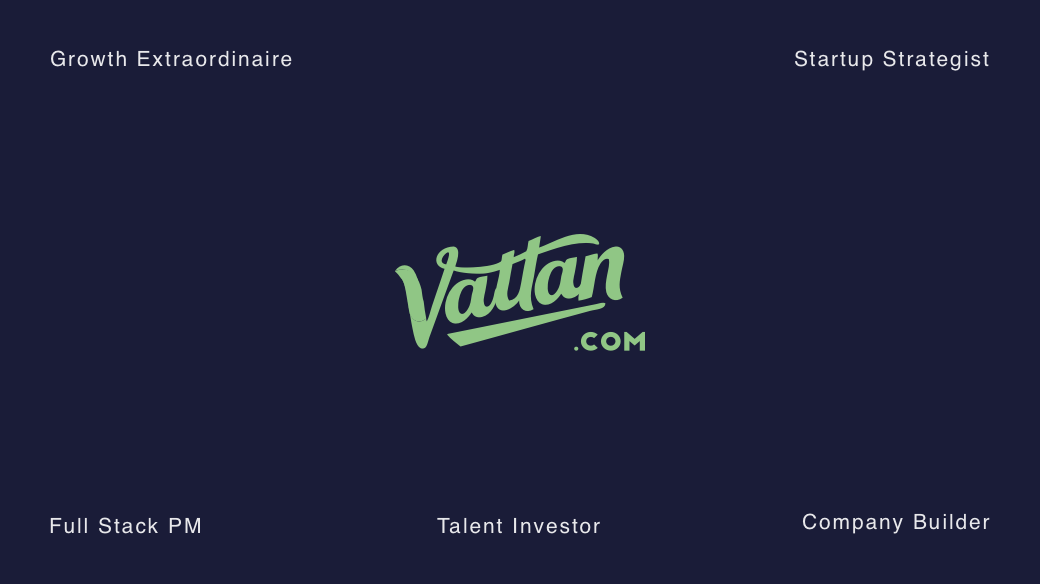
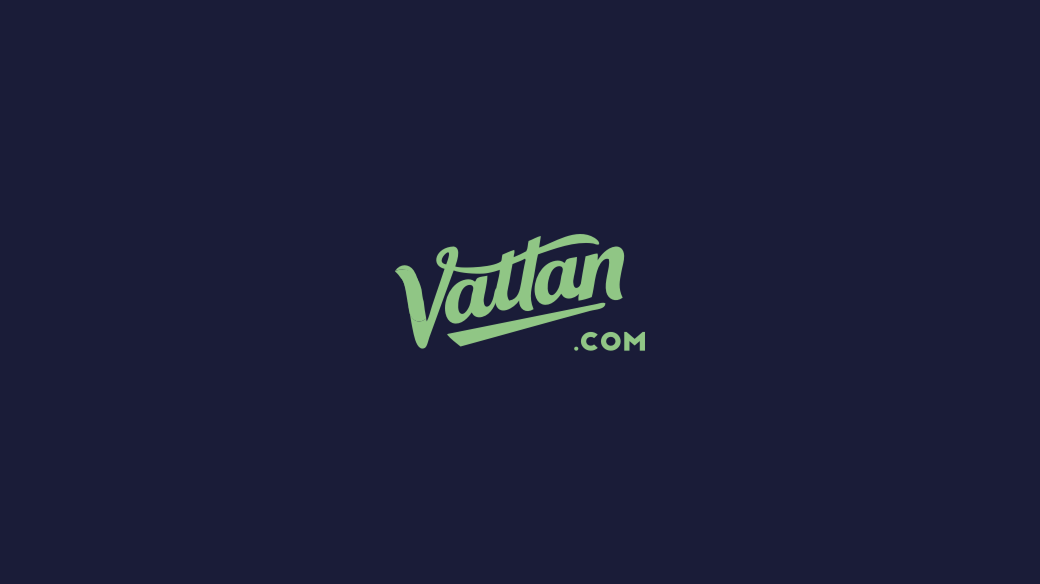
Redesign profile page with Tailwind CSS v4 and copy updates

diff --git a/index.html b/index.html
@@ -1,1 +1,1 @@
-<!DOCTYPE html><html lang="en"><head><meta charset="utf-8"><meta name="viewport" content="width=device-width, initial-scale=1"><title>Vattan PS - Exponential Transformation. At Scale.</title><meta name="description" content="I see what's missing and build what's next. Founder of Founderly and V, creating ventures that transform human potential at planetary scale."><link rel="canonical" href="https://vattan.com" /><link rel="dns-prefetch" href="//vattan.com" /> <script>!function(t,e,a,n,s){e[a]=e[a]||function(){(e[a].q=e[a].q||[]).push(arguments)},n=t.createElement("script"),s=t.getElementsByTagName("script")[0],n.async=1,n.src="//analytics.vps.link/tracker.js",n.id="fathom-script",s.parentNode.insertBefore(n,s)}(document,window,"fathom"),fathom("set","siteId","YWNNV"),fathom("trackPageview");</script> <link rel="apple-touch-icon" sizes="180x180" href="https://vattan.com/img/apple-touch-icon.png"><link rel="icon" type="image/png" sizes="32x32" href="https://vattan.com/img/favicon-32x32.png"><link rel="icon" type="image/png" sizes="16x16" href="https://vattan.com/img/favicon-16x16.png"><link rel="shortcut icon" type="image/x-icon" href="https://vattan.com/img/favicon.ico"><meta name="theme-color" content="#1A1C38"><meta itemprop="name" content="Vattan PS"><meta itemprop="description" content="Vattan PS - Exponential Transformation. At Scale."><meta itemprop="image" content="https://vattan.com/img/vattan-schema.png"><meta name="robots" content="noodp,noydir" /><meta property="og:url" content="https://vattan.com"><meta property="og:type" content="website"><meta name="title" property="og:title" content="Vattan PS - Exponential Transformation. At Scale."><meta name="description" property="og:description" content="I see what's missing and build what's next. Founder of Founderly and V, creating ventures that transform human potential at planetary scale."><meta name="image" property="og:image" content="https://vattan.com/img/vattan-facebook.png"><meta property="og:image:height" content="1200"><meta property="og:image:width" content="1200"><meta name="twitter:card" content="summary_large_image"><meta name="twitter:title" content="Vattan PS - Exponential Transformation. At Scale."><meta name="twitter:description" content="I see what's missing and build what's next. Founder of Founderly and V, creating ventures that transform human potential at planetary scale."><meta name="twitter:image" content="https://vattan.com/img/vattan-twitter.png"><meta name="twitter:site" content="psvattan"> <script type="application/ld+json">{"@context":"https://schema.org","@type":"Person","name":"Vattan PS","jobTitle":"Founder","url":"https://vattan.com","brand":"Vattan PS","image":"https:/vattan.com/img/vattan-schema.png"}</script> <link href="https://fonts.googleapis.com/css?family=Open+Sans:400,700,800&display=swap" rel="stylesheet"><link href="https://vattan.com/css/main.css" rel="stylesheet" media="screen" /><style></style></head><body> <main class="main"><div class="container"> <section class="intro"> <div class="header"><figure> <img src="https://vattan.com/img/vattan.svg" alt="Vattan PS - Exponential Transformation. At Scale."> </figure> <a class="button" href="https://blog.vattan.com" target="_blank"><span>Blog</span> <svg viewBox="0 0 62 36" fill="none" xmlns="http://www.w3.org/2000/svg"><path d="M51.0232 4.78137C43.8399 4.78137 36.6567 4.78137 29.4735 4.78137C23.1773 4.78137 16.2376 4.08517 10.3663 6.8296C7.6938 8.0788 4.38645 10.1306 2.84649 12.782C1.48574 15.1248 0.988718 18.628 1.00019 21.3018C1.00994 23.5719 1.97437 25.3351 3.35614 27.0811C5.46795 29.7497 7.95463 32.4336 11.2606 33.5431C15.1621 34.8525 19.7135 34.9982 23.7711 35.0913C29.954 35.2332 36.1171 34.7828 42.2533 34.0528C46.1165 33.5932 50.5598 33.2245 54.2349 31.7065C57.4622 30.3735 62.0997 26.3314 61.6586 22.3981C61.0983 17.4025 57.2737 13.0321 53.8695 9.62789C50.8422 6.6005 47.4077 4.06244 43.2245 2.887C38.343 1.51534 33.0525 1.14648 28.0022 1.14648" stroke="#8bc47e" stroke-width="0.5" stroke-linecap="round" ></path></svg></a> </div> <article class="mt-sm"><h1>Exponential Transformation. <br> At Scale.</h1><p>I see what's missing and build what's next. Planetary scale in years, not decades.</p> </article> <aside class="cta mt-sm"> <button class="button" onclick="document.querySelector('#profile').scrollIntoView({behavior: 'smooth'});">Read more</button><ul class="social"><li> <script type="text/javascript">eml='vattan.com';eml=('connect'+'@'+eml);document.write('<a href="mailto:'+eml+'" title="Email"><svg xmlns="http://www.w3.org/2000/svg" width="24" height="24" viewBox="0 0 24 24" fill="none" stroke="currentColor" stroke-width="1" stroke-linecap="round" stroke-linejoin="round"><path d="M4 4h16c1.1 0 2 .9 2 2v12c0 1.1-.9 2-2 2H4c-1.1 0-2-.9-2-2V6c0-1.1.9-2 2-2z"></path><polyline points="22,6 12,13 2,6"></polyline></svg></a>');</script> </li><li> <a href="https://www.instagram.com/psvattan/" title="Instagram" rel="nofollow" target="_blank"> <svg xmlns="http://www.w3.org/2000/svg" width="24" height="24" viewBox="0 0 24 24" fill="none" stroke="currentColor" stroke-width="1" stroke-linecap="round" stroke-linejoin="round"><rect x="2" y="2" width="20" height="20" rx="5" ry="5"></rect><path d="M16 11.37A4 4 0 1 1 12.63 8 4 4 0 0 1 16 11.37z"></path><line x1="17.5" y1="6.5" x2="17.51" y2="6.5"></line></svg> </a></li><li> <a href="https://m.me/psvattan" title="Facebook" rel="nofollow" target="_blank"> <svg xmlns="http://www.w3.org/2000/svg" width="24" height="24" viewBox="0 0 24 24" fill="none" stroke="currentColor" stroke-width="1" stroke-linecap="round" stroke-linejoin="round"><path d="M18 2h-3a5 5 0 0 0-5 5v3H7v4h3v8h4v-8h3l1-4h-4V7a1 1 0 0 1 1-1h3z"></path></svg> </a></li><li> <a href="https://twitter.com/psvattan" title="Twitter" rel="nofollow" target="_blank"> <svg xmlns="http://www.w3.org/2000/svg" width="24" height="24" viewBox="0 0 24 24" fill="none" stroke="currentColor" stroke-width="1" stroke-linecap="round" stroke-linejoin="round"><path d="M23 3a10.9 10.9 0 0 1-3.14 1.53 4.48 4.48 0 0 0-7.86 3v1A10.66 10.66 0 0 1 3 4s-4 9 5 13a11.64 11.64 0 0 1-7 2c9 5 20 0 20-11.5a4.5 4.5 0 0 0-.08-.83A7.72 7.72 0 0 0 23 3z"></path></svg> </a></li><li> <a href="https://www.linkedin.com/in/vattan/" title="LinkedIn" rel="nofollow" target="_blank"> <svg xmlns="http://www.w3.org/2000/svg" width="24" height="24" viewBox="0 0 24 24" fill="none" stroke="currentColor" stroke-width="1" stroke-linecap="round" stroke-linejoin="round"><path d="M16 8a6 6 0 0 1 6 6v7h-4v-7a2 2 0 0 0-2-2 2 2 0 0 0-2 2v7h-4v-7a6 6 0 0 1 6-6z"></path><rect x="2" y="9" width="4" height="12"></rect><circle cx="4" cy="4" r="2"></circle></svg> </a></li></ul> </aside> </section></div> </main> <section class="bg-white pt" id="profile"><div class="container"> <article><div class="w-75"><h2>Ventures That <br> Transform Reality</h2></div><p class="pl-sm"><a href="https://founderly.com" rel="noopener" target="_blank"><strong>Founderly</strong></a> is reimagining how entrepreneurs succeed—creating a global platform where millions of unheard founders find the support, resources, and connections to transform potential into reality.</p> <p class="pl-sm"><a href="https://v.ee" rel="noopener" target="_blank"><strong>V</strong></a> is defining how humans and AI evolve together. With Agency.AI and our augmented intelligence tools, we're proving that humans and AI achieve more together than either could alone.</p> <p class="pl-sm"><i>Every venture proves the same truth: humanity advances through new possibilities, not old limitations.</i></p> </article></div> </section>  <section class="bg-white pt pb"><div class="container"> <article><div class="w-75"><h2>Making Patterns Visible</h2></div><p class="pl-sm">Through conference keynotes, podcast appearances, and curated discussions, I reveal the opportunities hiding in plain sight. Every conversation sparks new possibilities.</p> </article></div> </section>  <footer class="pt pb"><div class="container"><blockquote><p>The future needs new foundations. I'm building them.</p></blockquote></div> </footer></body></html>
+<!DOCTYPE html><html lang="en" class="scroll-smooth"><head><meta charset="UTF-8"><meta name="viewport" content="width=device-width,initial-scale=1"><title>Vattan — The Man Whose Purpose Was Written Before He Was Born</title><meta name="description" content="Some names describe a person. His described a mission. A long-form profile of Vattan — the man whose name means homeland, vision, water, and foundation across eight languages."><link rel="canonical" href="https://vattan.com"><meta name="theme-color" content="#060f4a"><meta name="robots" content="noodp,noydir"><link rel="apple-touch-icon" sizes="180x180" href="https://vattan.com/img/apple-touch-icon.png"><link rel="icon" type="image/png" sizes="32x32" href="https://vattan.com/img/favicon-32x32.png"><link rel="icon" type="image/png" sizes="16x16" href="https://vattan.com/img/favicon-16x16.png"><link rel="shortcut icon" type="image/x-icon" href="https://vattan.com/img/favicon.ico"><meta property="og:url" content="https://vattan.com"><meta property="og:type" content="article"><meta property="og:title" content="Vattan — The Man Whose Purpose Was Written Before He Was Born"><meta property="og:description" content="Some names describe a person. His described a mission. A long-form profile across eight languages and three civilizations."><meta property="og:image" content="https://vattan.com/img/vattan-facebook.png"><meta property="og:image:width" content="1200"><meta property="og:image:height" content="1200"><meta name="twitter:card" content="summary_large_image"><meta name="twitter:site" content="psvattan"><meta name="twitter:title" content="Vattan — The Man Whose Purpose Was Written Before He Was Born"><meta name="twitter:description" content="Some names describe a person. His described a mission. A long-form profile across eight languages and three civilizations."><meta name="twitter:image" content="https://vattan.com/img/vattan-twitter.png"><script type="application/ld+json">{"@context":"https://schema.org","@type":"Article","headline":"The Man Whose Purpose Was Written Before He Was Born","author":{"@type":"Person","name":"Vattan PS","url":"https://vattan.com"},"publisher":{"@type":"Person","name":"Vattan PS"},"image":"https://vattan.com/img/vattan-schema.png","url":"https://vattan.com","description":"Some names describe a person. His described a mission. A long-form profile of Vattan across eight languages and three civilizations."}</script><script>!function(t,e,a,n,s){e[a]=e[a]||function(){(e[a].q=e[a].q||[]).push(arguments)},n=t.createElement("script"),s=t.getElementsByTagName("script")[0],n.async=1,n.src="//analytics.vps.link/tracker.js",n.id="fathom-script",s.parentNode.insertBefore(n,s)}(document,window,"fathom"),fathom("set","siteId","YWNNV"),fathom("trackPageview")</script><link rel="preconnect" href="https://fonts.googleapis.com"><link rel="preconnect" href="https://fonts.gstatic.com" crossorigin><link href="https://fonts.googleapis.com/css2?family=Cormorant+Garamond:ital,wght@0,300;0,400;0,500;0,600;1,300;1,400;1,500&family=Cormorant+SC:wght@300;400;500&family=EB+Garamond:ital,wght@0,400;0,500;1,400&display=swap" rel="stylesheet"><script src="https://cdn.jsdelivr.net/npm/@tailwindcss/browser@4"></script><style type="text/tailwindcss">@theme{--color-navy:#09196e;--color-navy-deep:#060f4a;--color-navy-mid:#0d2280;--color-gold:#c9a96e;--color-gold-light:#e8d4a8;--color-gold-dark:#a08540;--color-cream:#f8f4ed;--color-cream-dark:#f0e8d8;--color-ink:#1a1a2e;--color-mist:#8892b0;--font-body:'EB Garamond',Georgia,serif;--font-display:'Cormorant Garamond',serif;--font-sc:'Cormorant SC',serif;--animate-scroll-pulse:scrollPulse 2s ease-in-out infinite;@keyframes fadeIn{from{opacity:0}to{opacity:1}}@keyframes fadeUp{from{opacity:0;transform:translateY(20px)}to{opacity:1;transform:translateY(0)}}@keyframes scrollPulse{0%,100%{opacity:.4;transform:scaleY(1)}50%{opacity:.8;transform:scaleY(1.1)}}}.cover::before{content:'';position:absolute;inset:0;background:radial-gradient(ellipse 60% 40% at 50% 60%,rgba(201,169,110,.06) 0%,transparent 70%),radial-gradient(ellipse 30% 60% at 20% 30%,rgba(9,25,110,.4) 0%,transparent 60%);pointer-events:none}.page::before{content:'';position:absolute;top:0;left:0;right:0;height:4px;background:linear-gradient(to right,var(--color-navy-deep),var(--color-navy),var(--color-gold),var(--color-navy),var(--color-navy-deep))}.pull-quote::before{content:'';position:absolute;top:0;left:0;width:3px;height:100%;background:var(--color-gold)}.pull-quote p span{color:var(--color-gold);font-style:normal}.pull-quote::after{content:'\201C';position:absolute;right:40px;bottom:-20px;font-family:var(--font-display);font-size:160px;font-weight:300;color:rgba(201,169,110,.08);line-height:1;pointer-events:none}.first-section>p:first-child::first-letter{font-family:var(--font-display);font-size:5.5em;font-weight:300;float:left;line-height:.75;margin-right:8px;margin-top:8px;color:var(--color-navy)}.prose p{font-family:var(--font-body);font-size:19px;line-height:1.85;color:#121212;margin-bottom:1.5em}.prose p:last-child{margin-bottom:0}.prose em{font-style:italic;color:#1a1a2e}.prose strong{font-weight:600;color:var(--color-navy)}.closing::before{content:'';position:absolute;inset:0;background:radial-gradient(ellipse 60% 50% at 50% 50%,rgba(201,169,110,.06) 0%,transparent 70%);pointer-events:none}.reveal{opacity:0;transform:translateY(24px);transition:opacity .8s ease,transform .8s ease}.reveal.visible{opacity:1;transform:translateY(0)}</style></head><body class="bg-navy-deep text-cream font-body text-[18px] leading-[1.8] antialiased overflow-x-hidden"><section class="cover min-h-screen bg-[linear-gradient(160deg,var(--color-navy-deep)_0%,var(--color-navy)_50%,var(--color-navy-mid)_100%)] flex flex-col items-center justify-center py-[60px] px-6 sm:py-20 sm:px-10 relative overflow-hidden"><div class="absolute top-12 left-1/2 -translate-x-1/2 opacity-0 animate-[fadeIn_1s_ease_0.3s_forwards] text-white/60"><svg class="h-12 w-auto" viewBox="0 0 249 132" fill="currentColor" xmlns="http://www.w3.org/2000/svg"><path d="M205.489 4.63046C186.739 -6.83693 162.935 10.0924 147.989 14.6033L146.358 21.6685C164.32 15.6087 185.326 7.6196 203.886 10.2283C205.842 10.5 207.744 12.1305 210.054 11.0435C210.815 8.51633 207.473 5.82612 205.489 4.63046Z"/><path fill-rule="evenodd" clip-rule="evenodd" d="M236.304 66.0978C229.048 71.3967 221.249 67.6739 219.402 60.3913C218.043 55.0109 219.13 48.9783 220.244 43.1087C221.331 37.2935 223.206 31.3967 221.956 26.587C217.907 25.2011 214.728 29.1413 213.315 31.288C207.499 40.1467 207.282 54.9294 204.374 65.4457C200.679 66.9946 194.673 68.625 190.679 69.1141C190.054 65.2826 191.412 61.6957 192.092 57.8098C194.048 46.6957 195.706 34.9293 197.989 23.788C201.983 22.9457 206.576 21.0435 210.19 20.8533C211.304 22.5652 210.217 25.1196 210.543 27.2391C210.543 27.5109 210.298 27.6467 210.407 27.9728C213.206 23.2446 220.108 14.712 228.804 13.8152C233.505 13.3261 237.635 16.4511 237.853 23.3533C238.016 28.4076 235.869 34.413 234.864 40.2011C233.342 48.5435 231.358 56.2065 236.304 66.0978Z"/><path fill-rule="evenodd" clip-rule="evenodd" d="M83.3155 50.337C84.6198 49.4402 84.2394 47.5109 86.0329 46.4783C88.6687 44.9294 93.1796 44.9294 96.06 44.1141C96.0872 49.087 94.8916 54.413 93.8318 60.4185C93.4514 62.538 92.5546 65.4728 92.2829 68.6793C92.0927 70.962 92.4731 76.2609 95.272 76.3424C99.022 76.4511 101.06 70.2826 101.821 68C103.18 64.0054 102.989 60.6087 104.647 57.5109C105.815 57.375 106.93 57.2663 107.609 57.9728C108.886 60.1739 107.446 63.2174 106.631 66.0707C104.484 73.5978 100.299 84.5761 90.5709 87.0217C85.8155 88.2174 82.0383 86.5598 79.8916 82.3478C77.147 86.8587 69.2394 96.4783 60.2177 93.2717C56.6579 91.9946 54.1035 88.0815 53.1253 83.2446C50.2992 68.9239 59.5383 50.4457 74.1579 48.1087C76.9296 47.6196 80.4622 47.7826 83.3155 50.337ZM66.8481 68.5435C65.897 73 65.272 81.4783 68.6416 83.4348C71.6307 85.2011 74.5655 81.2065 75.7068 79.3315C79.0764 73.8152 78.9677 70.4728 80.0818 64.0326C80.4622 61.7772 82.3101 57.8641 81.2503 55.5544C80.0003 52.837 76.6307 53.6522 74.9731 54.413C70.1633 56.6413 68.0166 63.163 66.8481 68.5435Z"/><path fill-rule="evenodd" clip-rule="evenodd" d="M174.945 30.6087C176.25 29.712 175.869 27.7826 177.663 26.75C180.299 25.1739 184.837 25.1739 187.717 24.3587C187.744 29.3587 186.549 34.6576 185.489 40.663C185.108 42.7826 184.212 45.6902 183.94 48.9239C183.75 51.2065 184.13 56.5054 186.929 56.587C190.679 56.6957 192.717 50.5272 193.478 48.2446C194.837 44.25 194.646 40.8533 196.331 37.7554C197.5 37.6196 198.614 37.5109 199.293 38.2174C200.57 40.4185 199.13 43.462 198.315 46.3152C196.168 53.8424 191.983 64.8207 182.255 67.2663C177.5 68.462 173.723 66.8043 171.576 62.5924C168.831 67.1033 160.924 76.7228 151.902 73.5163C148.342 72.2391 145.788 68.3261 144.81 63.4891C141.983 49.1685 151.223 30.6902 165.842 28.3533C168.56 27.8913 172.092 28.0543 174.945 30.6087ZM158.478 48.8152C157.527 53.2717 156.902 61.75 160.271 63.7065C163.261 65.4457 166.195 61.4783 167.337 59.6033C170.706 54.087 170.598 50.7446 171.712 44.3043C172.092 42.0489 173.94 38.1359 172.88 35.8261C171.63 33.1087 168.261 33.9239 166.603 34.6848C161.793 36.913 159.646 43.4348 158.478 48.8152Z"/><path fill-rule="evenodd" clip-rule="evenodd" d="M218.453 71.0707C218.588 77.2935 208.587 77.2391 202.392 78.8696C157.718 90.663 111.169 103.543 67.6092 115.201C62.8266 111.315 57.7179 107.864 53.6418 103C54.0495 102.81 54.0766 102.402 54.5929 102.293C105.49 92.2663 157.636 81.9946 209.24 71.8315C212.31 71.2337 215.463 69.7663 218.453 71.0707Z"/><path d="M137.527 7.64674C136.576 11.0978 136.929 15.3098 135.136 18.2446C131.168 20.5 126.712 22.4837 122.092 24.3587C121.957 21.6685 123.56 19.9565 122.69 16.8587C117.989 18.1359 114.511 20.1196 110.38 21.7228C109.62 24.4402 109.81 27.7283 108.696 30.2826L107.663 37.1304C107.717 45.0109 101.359 60.0652 102.935 70.3641C105.543 87.212 123.288 76.7228 127.717 68.9511C127.364 78.0543 134.973 82.9457 142.717 78.0272C137.12 64.712 141.304 55.0652 143.125 44.3859C144.565 35.9891 145.707 27.9185 147.636 20.1196C147.663 20.1196 147.663 20.1196 147.663 20.0924L148.967 11.3424H148.94C149.076 10.1467 149.266 9.00543 149.484 7.86413L150.245 2.86413C150.245 2.78261 150.272 2.67391 150.272 2.59239C146.603 3.02717 141.793 6.20652 137.527 7.64674ZM129.81 51.125C128.451 58.2717 126.929 67.8641 117.337 69.1413C113.505 63.1359 116.467 56.0978 117.5 50.2283C118.668 43.788 119.538 37.538 120.87 31.5054C125 29.6304 130 28.2174 133.533 26.0163C133.913 25.8261 134.049 26.0707 134.158 26.3696C134.239 26.6957 134.321 27.0217 134.429 27.3478C132.636 34.413 131.332 43.0543 129.81 51.125Z"/><path d="M26.7932 57.4837C27.4182 61.8587 27.69 66.288 28.9671 69.9565C28.4236 65.7446 27.7986 61.5598 26.7932 57.4837Z"/><path d="M24.5378 50.1739C25.4617 52.538 26.1954 54.9837 26.7932 57.4565C26.7117 56.8587 26.603 56.2337 26.4943 55.6359C25.353 49.0598 23.6139 42.375 20.0541 37.3478C15.3257 30.6902 5.92354 29.9565 0.298538 37.9728C12.2551 33.3804 20.4073 39.5217 24.5378 50.1739Z"/><path d="M5.97881 45.5815C9.70163 51.6957 10.544 58.0815 11.794 64.7391C12.8266 70.2011 13.0712 76.1522 14.4299 80.9891C13.4788 75.1196 12.5549 69.1413 11.4136 62.375C10.6255 57.7826 9.37554 48.6522 5.97881 45.5815Z"/><path d="M28.587 89.5761C29.6467 89.0326 30.6522 88.3804 31.5761 87.6467C30.3533 82.0217 29.7554 75.9891 28.9946 69.9565C27.7446 66.3152 27.4728 61.8587 26.8207 57.4837C26.2228 55.0109 25.4891 52.5652 24.5652 50.2011C20.4348 39.5489 12.2826 33.3804 0.353261 38.0272C0.217391 38.163 0.108696 38.3261 0 38.4891C2.58152 40.7989 4.4837 43.163 5.97826 45.5815C9.40217 48.6522 10.6522 57.7826 11.413 62.375C12.5543 69.1413 13.4783 75.0924 14.4293 80.9891C14.6739 81.8587 14.9457 82.6739 15.2717 83.462C18.2337 90.5272 23.8043 92.0217 28.587 89.5761Z"/><path d="M111.468 26.4239C116.495 21.7228 113.968 25.7446 113.506 25.962C113.234 26.0978 112.419 25.7717 110.68 27.7011C103.696 35.4185 71.4133 35.5815 66.2774 34.875C64.9459 34.6848 63.7774 34.712 61.8209 34.087C61.9024 33.9239 62.4187 32.2663 62.3916 32.2391C63.2883 29.6848 64.2394 26.5598 64.6742 23.625C65.4079 18.6522 64.7557 14.1413 60.109 13.5435C41.4405 14.1413 35.6253 33.1087 50.734 36.5054C50.5981 36.8859 46.4677 49.1685 46.4677 49.1685C43.4514 57.9728 40.4079 66.5598 37.6361 74.9565C35.7883 80.6087 34.7285 86.0435 32.2557 90.663C31.984 89.6848 31.7666 88.6793 31.5492 87.6739C30.6253 88.4076 29.647 89.0598 28.56 89.6033C23.8046 92.0489 18.2068 90.5543 15.2719 83.4891C14.9458 82.7011 14.6741 81.8859 14.4295 81.0163C15.598 88.2717 16.8481 95.4185 18.6959 103.788C20.3535 111.315 23.7231 121.071 30.109 117.946C32.6905 116.668 33.8046 110.092 35.0818 106.614C43.7231 83.1087 51.8753 60.7717 60.1905 38.1902C67.2014 40.8533 82.3372 41.913 91.0329 41.4239C96.8753 41.0978 108.56 38.0272 116.06 34.6304L111.821 25.8261C111.739 25.9076 109.674 28.1359 111.468 26.4239ZM53.7231 19.6576C57.935 18.2174 52.9622 30.3641 52.4731 31.8859C52.4731 31.913 52.4731 31.913 52.4459 31.9402C42.772 30.4457 50.4079 21.0163 53.7231 19.6576Z"/></svg></div><div class="name-cycler absolute top-1/2 left-1/2 -translate-x-1/2 -translate-y-1/2 text-center pointer-events-none select-none z-0 w-[90%]" aria-hidden="true"><span class="name-cycler-word block font-display text-[clamp(72px,16vw,220px)] font-light text-[rgba(201,169,110,0.055)] leading-none tracking-[0.04em] will-change-[opacity,transform] whitespace-nowrap"></span> <span class="name-cycler-lang block font-sc text-[11px] font-normal tracking-[0.45em] text-[rgba(201,169,110,0.15)] uppercase mt-2.5 will-change-[opacity]"></span></div><div class="relative z-[1] text-center max-w-[900px]"><h1 class="font-display text-[clamp(32px,5vw,64px)] font-light leading-[1.1] tracking-[-0.02em] text-cream mb-12 opacity-0 animate-[fadeUp_1s_ease_0.7s_forwards]">The Man Whose Purpose<br>Was <em class="italic text-gold-light">Written</em><br>Before He Was Born</h1><div class="w-px h-20 bg-[linear-gradient(to_bottom,transparent,var(--color-gold),transparent)] mx-auto mb-12 opacity-0 animate-[fadeIn_1s_ease_1.1s_forwards]"></div><p class="font-display text-[18px] font-normal tracking-[0.2em] text-mist uppercase opacity-0 animate-[fadeUp_1s_ease_1.3s_forwards]">Some names describe a person. His described a mission.</p><p class="font-sc text-[15px] tracking-[0.35em] text-gold/70 uppercase mt-4 opacity-0 animate-[fadeUp_1s_ease_1.5s_forwards]">Vattan &nbsp;·&nbsp; 2026</p></div><div class="absolute bottom-6 left-1/2 -translate-x-1/2 flex flex-col items-center gap-2 opacity-0 animate-[fadeIn_1s_ease_2s_forwards]"><span class="font-sc text-[12px] tracking-[0.3em] text-gold/70 uppercase">Read</span><div class="w-px h-10 bg-[linear-gradient(to_bottom,rgba(201,169,110,0.4),transparent)] animate-scroll-pulse"></div></div></section><main class="page bg-cream text-ink relative"><div class="reveal max-w-[680px] mx-auto pt-[60px] px-6 pb-10 sm:pt-[100px] sm:px-10 sm:pb-20 text-center"><p class="font-display text-[clamp(24px,3.2vw,34px)] font-normal leading-[1.5] text-ink italic">There is a difference between a man who has a vision and a man who <strong class="not-italic font-medium">is</strong> a vision.</p><div class="flex items-center gap-4 mt-16 justify-center"><div class="w-[60px] h-px bg-gold opacity-50"></div><div class="w-[5px] h-[5px] bg-gold rounded-full opacity-70"></div><div class="w-[60px] h-px bg-gold opacity-50"></div></div></div><article class="max-w-[680px] mx-auto pt-10 px-6 pb-20 sm:pt-20 sm:px-10 sm:pb-[120px]"><div class="prose first-section reveal mb-20"><p>The first kind talks about the future. The second kind runs on it — the way a city runs on infrastructure laid before anyone living in it was born. For Vattan, the vision is not something he developed. It is something he discovered was already installed.</p><p>The question is not what he sees. It is what he does with it.</p><p>Every language that has ever held his name has been quietly describing him — and he is only now, at the hinge of his life, learning to read what they wrote.</p></div><div class="reveal mb-20"><div class="flex flex-col gap-2 sm:flex-row sm:items-baseline sm:gap-5 mb-9 pb-5 border-b border-navy/12"><span class="font-display text-[18px] font-light tracking-[0.2em] text-gold-dark whitespace-nowrap shrink-0">I</span><h2 class="font-display text-[32px] font-medium italic text-navy leading-[1.25]">The Word That Traveled the World</h2></div><div class="prose"><p>Before Vattan built anything, his name already had.</p><p><em>Vatan</em> left the Arabian peninsula as وَطَن — homeland, the ground beneath your feet, the place your bones know before your mind does. It crossed deserts and mountain passes, moved through Persian courts and Ottoman councils, arrived in Punjabi villages and Hindi classrooms. It became the word soldiers whispered before battles. The word poets used when they meant something that could not be said any other way. The word that made the first Prime Minister of India weep in public.</p><p>Across the Arab world, newspapers named themselves <em>Al-Watan</em> because no other word carried enough weight to stand for truth. The UAE built its presidential palace and called it <em>Qasr Al Watan</em> — the Palace of the Nation. To utter <em>vatan</em> in India is not to speak a word. It is to invoke something older than the country itself.</p><p>This is the word Vattan was born into.</p></div></div><div class="reveal grid grid-cols-1 sm:grid-cols-2 gap-px bg-navy/10 border border-navy/10 my-12"><div class="bg-cream py-6 px-7"><div class="font-sc text-[10px] tracking-[0.3em] text-gold-dark uppercase mb-2">Arabic / Persian / Urdu</div><div class="font-display text-[26px] font-normal italic text-navy mb-1.5 leading-[1.2]">وَطَن · Vatan</div><div class="font-body text-sm text-[#5a5a7a] leading-[1.5]">Homeland. The ground your bones know before your mind does.</div></div><div class="bg-cream py-6 px-7"><div class="font-sc text-[10px] tracking-[0.3em] text-gold-dark uppercase mb-2">Estonian</div><div class="font-display text-[26px] font-normal italic text-navy mb-1.5 leading-[1.2]">Vaatan</div><div class="font-body text-sm text-[#5a5a7a] leading-[1.5]">I see. I look and I understand what I am looking at.</div></div><div class="bg-cream py-6 px-7"><div class="font-sc text-[10px] tracking-[0.3em] text-gold-dark uppercase mb-2">Swedish / Nordic</div><div class="font-display text-[26px] font-normal italic text-navy mb-1.5 leading-[1.2]">Vatten</div><div class="font-body text-sm text-[#5a5a7a] leading-[1.5]">Water. The most essential element. The thing that fills every empty space.</div></div><div class="bg-cream py-6 px-7"><div class="font-sc text-[10px] tracking-[0.3em] text-gold-dark uppercase mb-2">Norwegian</div><div class="font-display text-[26px] font-normal italic text-navy mb-1.5 leading-[1.2]">Vatt</div><div class="font-body text-sm text-[#5a5a7a] leading-[1.5]">The foundational layer. Infrastructure beneath the surface everything rests upon.</div></div><div class="bg-cream py-6 px-7 col-span-full"><div class="font-sc text-[10px] tracking-[0.3em] text-gold-dark uppercase mb-2">Sufi Tradition</div><div class="font-display text-[26px] font-normal italic text-navy mb-1.5 leading-[1.2]">Vatan — the soul's original source</div><div class="font-body text-sm text-[#5a5a7a] leading-[1.5]">The divine homeland before incarnation. The intelligence that was yours before the world told you what to think. To return to vatan is to recover your essential cognitive sovereignty.</div></div></div><div class="prose reveal mb-20"><p>But the name kept moving. North and west, into the cold languages of the Baltic and the Nordic — and a word that had carried the weight of civilizations across fourteen centuries began to mean something else entirely.</p><p>In Estonia, where Vattan now builds, his name sounds like <em>vaatan</em> — "I see." Not merely <em>I look</em>, but <em>I look and I understand what I am looking at.</em> The verb <em>vaatama</em>: to observe, to perceive pattern in what others pass without noticing.</p><p>And in the deepest layer of all — the Sufi tradition — <em>vatan</em> is not a country. It is the soul's primordial origin point. The divine homeland before incarnation. The source code of consciousness itself. To return to <em>vatan</em>, in the Sufi sense, is to recover the intelligence that was yours before the world told you what to think.</p><p>He did not choose any of this.</p><p>The name chose him.</p></div><div class="pull-quote reveal my-10 -mx-6 p-8 sm:my-[52px] sm:-mx-10 sm:py-10 sm:px-[60px] bg-navy relative overflow-hidden"><p class="font-display text-[clamp(20px,2.5vw,26px)] font-normal italic leading-[1.5] text-cream relative z-[1]">His name means <span>homeland</span> in the language of his birth. <span>I see</span> in the language of the country he now builds in. <span>Water</span> in the world he moves through. And at the root of everything — the soul's original source.</p></div><div class="reveal mb-20"><div class="flex flex-col gap-2 sm:flex-row sm:items-baseline sm:gap-5 mb-9 pb-5 border-b border-navy/12"><span class="font-display text-[18px] font-light tracking-[0.2em] text-gold-dark whitespace-nowrap shrink-0">II</span><h2 class="font-display text-[32px] font-medium italic text-navy leading-[1.25]">What He Carries</h2></div><div class="prose"><p>The name raises one question: what kind of person does it require?</p><p>Vattan carries three forces that should, by ordinary logic, cancel each other out.</p><p>The first is expansive — a storyteller's mind, a pattern-recognizer's eye, the compulsion to name what hasn't been named yet and make it undeniable to everyone else. The kind of force that creates categories that didn't exist before he walked into the room.</p><p>The second is restless — an explorer's instinct, a refusal to be captured by any single form or frame. The kind of force that keeps a builder perpetually ahead of the market — always at the frontier, never quite satisfied with the territory already claimed.</p><p>The third is weight. A demand that what is built must last, must serve, must carry something larger than the moment of its creation. It is not interested in clever. Not satisfied by beautiful. It only recognizes one thing: does this hold?</p><p>The rare person who carries all three and learns to hold them together builds things that outlast them. The sequence is not obvious — it has to be discovered through years of watching the first two forces work against each other before the third finally aligns them.</p><p>Underneath the empire-builder is a renunciate.</p><p>He is not motivated by money in the way people expect builders to be motivated by money. His friends see this and call it a puzzle — a talented man not maximizing earnings, not optimizing for the obvious return. What they are missing is that the weight in him is not oriented toward accumulation. It is oriented toward legacy. Not what he owns. What remains after he is gone.</p><p>This combination should be contradictory. The renunciate detaches from the world. The empire-builder constructs it. But in Vattan, the detachment is precisely what makes the construction possible. He is not building to prove something. He is building because the thing needs to exist.</p><p>Talk to people who have worked alongside him. They will tell you a version of the same story: a room full of people crediting him for something, and Vattan already three steps past it — asking what the next problem is, what the architecture requires, what hasn't been built yet. Not performing humility. Genuinely uninterested in the moment of recognition. The work is the only part that holds his attention.</p><p>A business coach would look at this and see someone leaving value on the table. What they are missing: ego management is expensive. It costs exactly the clarity he never spends. He can kill his own ideas when the evidence turns. He can give away credit when sharing it accelerates the work. He can change direction without the story he told himself getting in the way.</p><p>That is not a spiritual posture. That is a structural advantage.</p></div></div><div class="reveal mb-20"><div class="flex flex-col gap-2 sm:flex-row sm:items-baseline sm:gap-5 mb-9 pb-5 border-b border-navy/12"><span class="font-display text-[18px] font-light tracking-[0.2em] text-gold-dark whitespace-nowrap shrink-0">III</span><h2 class="font-display text-[32px] font-medium italic text-navy leading-[1.25]">The Engine and Its Shadows</h2></div><div class="prose"><p>Every force Vattan carries has a shadow. He is old enough now to know each one by name.</p><p>The demand for significance that prevents him from wasting time on trivial things can also prevent him from shipping something before it is perfect. He has learned — is still learning — the difference between patience that serves the work and perfectionism that protects the ego. They feel identical from the inside. One builds the thing. The other builds elaborate excuses for why the thing isn't ready yet.</p><p>The gift of seeing the next pattern before the current one is fully built is also, when unchecked, a way of never having to finish anything. There have been ventures left at 80% complete. Communities assembled and then outgrown before they became what they were meant to become. Vision is seductive. It can be mistaken for the building itself. Describing the future is not the same as constructing it. Vattan knows this. He has had to learn it more than once.</p><p>The ability to name a pattern so clearly that others immediately recognize it as true is its own form of power — and power, applied to the wrong end, produces influence without infrastructure. Words that move people but build nothing.</p><p>These are not flaws to be eliminated. They are the necessary friction of the engine.</p><p>The same perfectionism that stalls also produces depth. The same restlessness that abandons also produces range. The same expressiveness that performs also produces the ability to make others believe in a future they cannot yet see. When all three are held in tension — not resolved, not suppressed, but <em>held</em> — the output is something no purely disciplined builder could produce alone.</p><p>A man entirely without restlessness builds fortresses. Solid, permanent, and airless.</p><p>Vattan builds living systems.</p></div></div><div class="pull-quote reveal my-10 -mx-6 p-8 sm:my-[52px] sm:-mx-10 sm:py-10 sm:px-[60px] bg-navy relative overflow-hidden"><p class="font-display text-[clamp(20px,2.5vw,26px)] font-normal italic leading-[1.5] text-cream relative z-[1]">These are not flaws to be eliminated. They are the necessary friction of the engine.</p></div><div class="reveal mb-20"><div class="flex flex-col gap-2 sm:flex-row sm:items-baseline sm:gap-5 mb-9 pb-5 border-b border-navy/12"><span class="font-display text-[18px] font-light tracking-[0.2em] text-gold-dark whitespace-nowrap shrink-0">IV</span><h2 class="font-display text-[32px] font-medium italic text-navy leading-[1.25]">How He Decides</h2></div><div class="prose"><p>Before the first message arrives, before the day has a shape — there is a question he asks of everything.</p><p>Not out loud. The filter runs beneath conscious thought, the way breathing does. But its logic is consistent enough to be mapped.</p><p>The first question is scale. Not market size in the conventional sense. <em>Civilizational</em> scale. Does this matter to millions, or is it merely clever? Is this infrastructure, or is it a feature?</p><p>Features solve problems for today's users. Infrastructure creates the conditions under which tomorrow's users can exist. Vattan cannot fully commit to a feature. Something in him requires the foundation. Competing inside someone else's frame feels like wearing clothes tailored for a different body.</p><p>The second question is timing. Not <em>is this right?</em> but <em>is this ready?</em></p><p>The pattern may be clear — he can see it years before it has a name — but seeing a pattern and the world being ready to receive it are two different things. The builder who moves too early is indistinguishable from the builder who was wrong. Both run out of runway before the market arrives.</p><p>A test he applies without thinking: Is the technology prepared? Has human behavior already begun shifting toward this, even imperceptibly? Do the economics permit it? If any answer is no, the vision is real but the moment is early. The move then is to build the version of the future that today's world can absorb — and to keep constructing the full architecture quietly behind it.</p><p>The third question is immediacy. Once the pattern is clear and the moment is ready, the window is short.</p><p>He does not linger in the doorway. The decision, once made, becomes irreversible within hours — not because he is reckless, but because hesitation in the face of an identified inevitability is its own form of error. To see clearly and still wait is a betrayal of the seeing.</p></div></div><div class="reveal mb-20"><div class="flex flex-col gap-2 sm:flex-row sm:items-baseline sm:gap-5 mb-9 pb-5 border-b border-navy/12"><span class="font-display text-[18px] font-light tracking-[0.2em] text-gold-dark whitespace-nowrap shrink-0">V</span><h2 class="font-display text-[32px] font-medium italic text-navy leading-[1.25]">The Certainty That Isn't Confidence</h2></div><div class="prose"><p>There is a word that gets misapplied to people like Vattan: <em>confident</em>.</p><p>Confidence is fragile. It depends on external validation, on recent success, on the absence of contradiction. People who are merely confident need the room to agree with them.</p><p>What Vattan operates from is something different.</p><p>Ask him about a risk and he does not reassure you. He explains the mechanism by which the risk becomes irrelevant. Ask him about a competitor and he does not dismiss them. He locates them in the sequence — predecessor, not rival — and moves on. The conversation never returns to whether. Only to when, and how, and what comes after.</p><p>He lives <em>from</em> the future rather than <em>toward</em> it. When he describes what he is building, he is not pitching a possibility. He is sharing a memory of something that hasn't happened yet for everyone else, but has already happened for him.</p><p>What this produces in others is not always agreement. Sometimes it is unease. The gap — the hesitation, the hedge, the softening of a statement to protect against being wrong — is where most people live. When someone speaks without it, the absence is felt before it is understood.</p><p>Vattan has collapsed that gap. Not through bravado. Through having done the work of understanding the pattern so thoroughly that there is nothing left to protect.</p></div></div><div class="reveal mb-20"><div class="flex flex-col gap-2 sm:flex-row sm:items-baseline sm:gap-5 mb-9 pb-5 border-b border-navy/12"><span class="font-display text-[18px] font-light tracking-[0.2em] text-gold-dark whitespace-nowrap shrink-0">VI</span><h2 class="font-display text-[32px] font-medium italic text-navy leading-[1.25]">The Skin Being Shed</h2></div><div class="prose"><p>For years, people knew Vattan as a connector.</p><p>The man who brought builders together, who convened rooms, who gathered the people making the future happen and made sure they were in the same space at the same time. It was real work. It produced real value. Communities formed around what he created. Careers changed direction in rooms he had assembled.</p><p>But it was not the work.</p><p>Every builder passes through a period when achievement and recognition feel like the same thing — when the visible result and the meaningful work are nearly indistinguishable. Then the two things begin to separate. The question stops being <em>how do I succeed?</em> and starts being <em>what am I actually here to build?</em></p><p>Vattan is in that second period now. The shift is not dramatic from the outside. From the inside it is complete.</p><p>The world is deploying autonomous AI agents at a pace that far outstrips the infrastructure to govern them. These entities act, transact, make decisions, and operate across jurisdictions. They are multiplying faster than anyone can count. And they have no identity layer. No credentialing system. No way to be trusted, audited, or held accountable by the institutions they interact with.</p><p>Every country that has watched its cognitive life migrate to servers it does not own, in jurisdictions it cannot reach, answering to priorities it did not set — is beginning to feel the question forming, even if it cannot yet name what it is asking.</p><p>Estonia understood this earlier than most. Over a decade ago, this small northern nation did something radical: it digitized human residency, giving anyone in the world the ability to establish a legal digital identity and operate inside the Estonian state without ever setting foot on Estonian soil. It was an act of institutional imagination that said: belonging to a place does not require physical presence. Identity can be architectural.</p><p>Vattan looked at this and saw the next step that no one had taken.</p><p>Estonia digitized human residency. He is building the residency for what comes after humans work alone.</p><p>This is not an incremental improvement on anything that exists. It is a new category — the kind that looks obvious in retrospect and invisible until it exists. The kind that only becomes possible when someone who has spent years understanding the terrain finally stops convening the room and starts constructing the building.</p><p>The connector is becoming the architect.</p><p>The preparation is becoming the work.</p></div></div><div class="pull-quote reveal my-10 -mx-6 p-8 sm:my-[52px] sm:-mx-10 sm:py-10 sm:px-[60px] bg-navy relative overflow-hidden"><p class="font-display text-[clamp(20px,2.5vw,26px)] font-normal italic leading-[1.5] text-cream relative z-[1]">Estonia digitized human residency. He is building the residency for what comes after humans work alone.</p></div><div class="reveal mb-20"><div class="flex flex-col gap-2 sm:flex-row sm:items-baseline sm:gap-5 mb-9 pb-5 border-b border-navy/12"><span class="font-display text-[18px] font-light tracking-[0.2em] text-gold-dark whitespace-nowrap shrink-0">VII</span><h2 class="font-display text-[32px] font-medium italic text-navy leading-[1.25]">The Convergence</h2></div><div class="prose"><p>When a name, a set of forces, a moment in history, and an unsolved problem arrive at the same point simultaneously — that is called inevitability.</p><p>Not the false inevitability of someone who has convinced themselves they are special. The structural inevitability of a key that has found the lock it was cut for.</p><p>Vattan's name maps his mission across eight languages and three civilizations. The forces he carries encode the exact sequence by which creative identity transforms into lasting authority — when the expansiveness is held, when the restlessness is disciplined, when the weight is finally given something worthy of it. The shadows he has lived through have not weakened the engine. They have calibrated it.</p><p>And the Sufi meaning of <em>vatan</em> — the one that predates nations and politics and the entire modern apparatus of sovereignty — turns out to be the most precise description of what he is building.</p><p>Not AI made for a nation by a foreign power and graciously delivered. AI that belongs to the people who think through it. Every language. Every people. Every civilization that has watched its cognitive life migrate to servers it does not own, answering to priorities it did not set. The homeland of human cognition — individual and collective — reclaimed.</p><p>Not for one country.</p><p>For every mind that was never asked permission.</p><p>He does not compete with what came before. He locates it on the correct side of history — predecessor, not rival — and begins from the limit of what it could achieve.</p><p>The old way got us here. It deserved to exist. But every system that proved a model has also revealed the limit of the model. And the limit of the model is exactly where Vattan begins.</p><p>The man who sees (<em>vaatan</em>) the homeland (<em>vatan</em>) that needs to be built is the man who carries water (<em>vatten</em>) — flowing into every space where something essential is absent — and lays the infrastructure (<em>vatt</em>) beneath a civilization's intelligence.</p><p>He did not design this convergence.</p><p>He is simply — finally — building what his name has always been describing.</p></div></div></article></main><div class="closing bg-navy-deep py-20 px-6 sm:py-[120px] sm:px-10 text-center relative overflow-hidden"><div class="w-px h-[60px] bg-[linear-gradient(to_bottom,transparent,var(--color-gold),transparent)] mx-auto mb-12"></div><p class="font-display text-[clamp(20px,2.5vw,26px)] font-light italic text-cream leading-[1.5] max-w-[600px] mx-auto mb-12 relative z-[1]">The purpose was written before he arrived.<br><em class="text-gold-light not-italic">The building is his.</em></p><div class="w-px h-[60px] bg-[linear-gradient(to_bottom,var(--color-gold),transparent)] mx-auto mb-12"></div><p class="font-sc text-[15px] tracking-[0.4em] text-gold/70 uppercase relative z-[1]">Vattan &nbsp;·&nbsp; 2026</p></div><footer class="bg-navy-deep border-t border-gold/10 py-8 px-6 sm:p-10 text-center"><p class="font-sc text-[13px] tracking-[0.25em] text-gold/50 uppercase">vattan.com &nbsp;·&nbsp; Made in India &nbsp;·&nbsp; Building from Estonia</p></footer><script>const names=[{word:"وَطَن",lang:"Arabic — Homeland"},{word:"Vatan",lang:"Persian · Urdu · Turkish — Homeland"},{word:"Vaatan",lang:"Estonian — I See"},{word:"Vatten",lang:"Swedish — Water"},{word:"Vatt",lang:"Norwegian — Foundation"},{word:"Vatandar",lang:"Marathi — Landholder"},{word:"Vatan",lang:"Sufi — The Soul's Origin"},{word:"Vattan",lang:"The Man"}],wordEl=document.querySelector(".name-cycler-word"),langEl=document.querySelector(".name-cycler-lang");let current=0,animating=!1;function easeInQuart(e){return e*e*e*e}function easeOutQuint(e){return 1-Math.pow(1-e,5)}function easeOutCubic(e){return 1-Math.pow(1-e,3)}function animate({from:e,to:t,duration:n,easing:a,onUpdate:o,onComplete:r}){const i=performance.now();requestAnimationFrame(function s(c){const l=c-i,u=Math.min(l/n,1),d=a(u);o(e+(t-e)*d),u<1?requestAnimationFrame(s):r&&r()})}function setWordOpacity(e){wordEl.style.opacity=e,wordEl.style.transform="translateY("+-8*(1-e)+"px)"}function setLangOpacity(e){langEl.style.opacity=e}function fadeOut(e){animate({from:1,to:0,duration:900,easing:easeInQuart,onUpdate:e=>{setWordOpacity(e),setLangOpacity(e)},onComplete:e})}function fadeIn(){animating=!1,animate({from:0,to:1,duration:1800,easing:easeOutQuint,onUpdate:e=>{setWordOpacity(e)}}),setTimeout(()=>{animate({from:0,to:1,duration:2e3,easing:easeOutCubic,onUpdate:e=>setLangOpacity(e)})},300)}function cycleToNext(){animating||(animating=!0,fadeOut(()=>{current=(current+1)%names.length,wordEl.textContent=names[current].word,langEl.textContent=names[current].lang,setTimeout(fadeIn,120)}))}wordEl.textContent=names[0].word,langEl.textContent=names[0].lang,setWordOpacity(0),setLangOpacity(0),setTimeout(()=>{fadeIn(),setInterval(cycleToNext,4200)},1800);const reveals=document.querySelectorAll(".reveal"),observer=new IntersectionObserver(e=>{e.forEach((e,t)=>{e.isIntersecting&&(setTimeout(()=>{e.target.classList.add("visible")},60*t),observer.unobserve(e.target))})},{threshold:.08,rootMargin:"0px 0px -40px 0px"});reveals.forEach(e=>observer.observe(e))</script></body></html>
